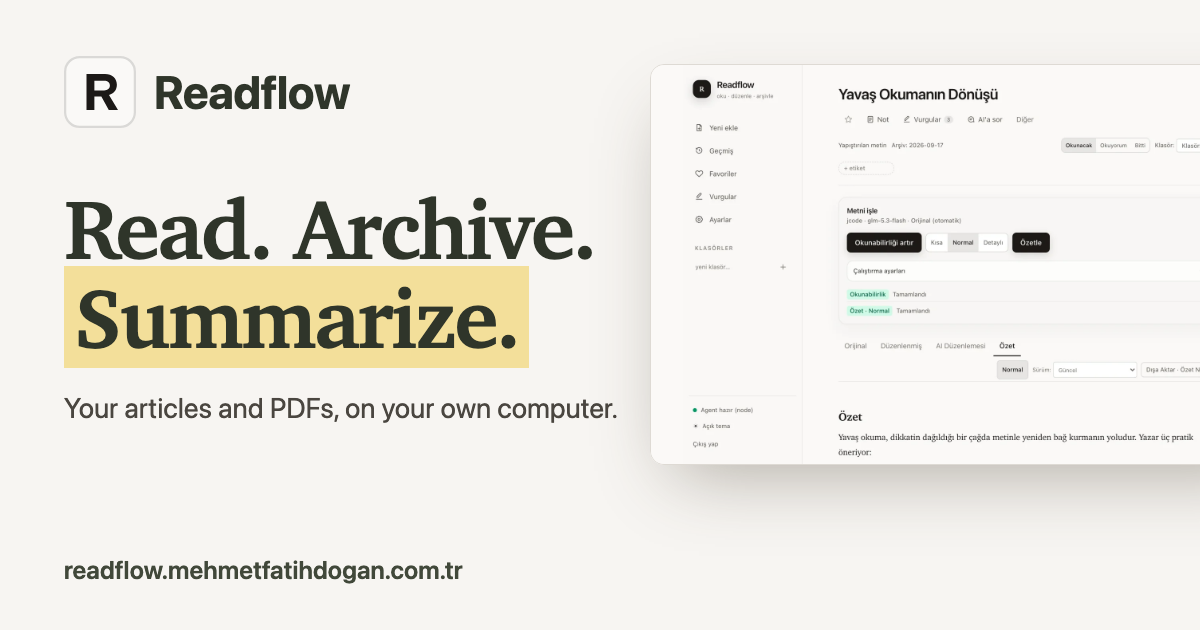
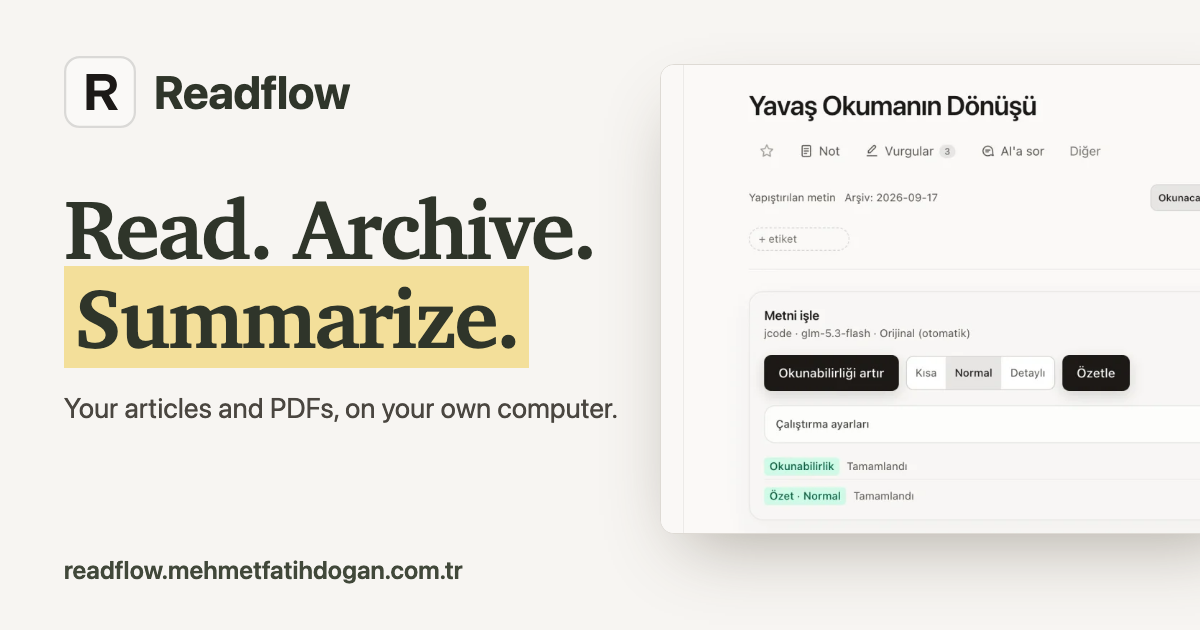
feat: paylaşım kartında ürün ekranını yakınlaştır, görseli önbellekten çıkar

diff --git a/showcase/en/index.html b/showcase/en/index.html
@@ -19,7 +19,7 @@
 <meta property="og:title" content="Readflow — Read-it-later App for Articles & PDFs">
 <meta property="og:description" content="Archive articles and PDFs, keep a read-it-later reading list, highlight and summarize with your own agent. Local-first: your data stays with you.">
 <meta property="og:url" content="https://readflow.mehmetfatihdogan.com.tr/en/">
-<meta property="og:image" content="https://readflow.mehmetfatihdogan.com.tr/assets/og-en.png">
+<meta property="og:image" content="https://readflow.mehmetfatihdogan.com.tr/assets/og-en.png?v=2">
 <meta property="og:image:width" content="1200">
 <meta property="og:image:height" content="630">
 <meta property="og:image:type" content="image/png">
@@ -27,12 +27,12 @@
 <meta name="twitter:card" content="summary_large_image">
 <meta name="twitter:title" content="Readflow — Read-it-later App for Articles & PDFs">
 <meta name="twitter:description" content="Archive articles and PDFs, keep a read-it-later reading list, highlight and summarize with your own agent. Local-first: your data stays with you.">
-<meta name="twitter:image" content="https://readflow.mehmetfatihdogan.com.tr/assets/og-en.png">
+<meta name="twitter:image" content="https://readflow.mehmetfatihdogan.com.tr/assets/og-en.png?v=2">
 <meta name="twitter:image:alt" content="Readflow share card: article and PDF archive, reading list and highlights on your own computer.">
 <link rel="icon" href="/favicon.svg" type="image/svg+xml">
 <link rel="apple-touch-icon" href="/apple-touch-icon.png">
 <link rel="stylesheet" href="/style.css?v=20261012b">
-<script type="application/ld+json">{"@context": "https://schema.org", "@type": "SoftwareApplication", "name": "Readflow", "url": "https://readflow.mehmetfatihdogan.com.tr/en/", "description": "A local-first read-it-later app for articles and PDFs: archives them with a reading list and highlights, and summarizes with your own coding-agent CLI.", "inLanguage": "en", "applicationCategory": "ProductivityApplication", "operatingSystem": "macOS, Linux, Windows", "license": "https://opensource.org/licenses/MIT", "offers": {"@type": "Offer", "price": "0", "priceCurrency": "USD"}, "author": {"@type": "Person", "@id": "https://mehmetfatihdogan.com.tr/#person", "name": "Mehmet Fatih Doğan", "url": "https://mehmetfatihdogan.com.tr"}, "sameAs": ["https://github.com/fatihdogann/readflow"], "image": "https://readflow.mehmetfatihdogan.com.tr/assets/og-en.png"}</script>
+<script type="application/ld+json">{"@context": "https://schema.org", "@type": "SoftwareApplication", "name": "Readflow", "url": "https://readflow.mehmetfatihdogan.com.tr/en/", "description": "A local-first read-it-later app for articles and PDFs: archives them with a reading list and highlights, and summarizes with your own coding-agent CLI.", "inLanguage": "en", "applicationCategory": "ProductivityApplication", "operatingSystem": "macOS, Linux, Windows", "license": "https://opensource.org/licenses/MIT", "offers": {"@type": "Offer", "price": "0", "priceCurrency": "USD"}, "author": {"@type": "Person", "@id": "https://mehmetfatihdogan.com.tr/#person", "name": "Mehmet Fatih Doğan", "url": "https://mehmetfatihdogan.com.tr"}, "sameAs": ["https://github.com/fatihdogann/readflow"], "image": "https://readflow.mehmetfatihdogan.com.tr/assets/og-en.png?v=2"}</script>
 </head>
 <body><a class="skip-link" href="#main">Skip to content</a>
 <div class="wrap">

diff --git a/showcase/index.html b/showcase/index.html
@@ -20,7 +20,7 @@
 <meta property="og:title" content="Readflow — Makale ve PDF Arşivi, Okuma Listesi">
 <meta property="og:description" content="Makaleleri ve PDF'leri tek arşive topla; read-it-later okuma listesi, vurgular ve kendi agent'ınla özetler. Local-first: verin senin bilgisayarında.">
 <meta property="og:url" content="https://readflow.mehmetfatihdogan.com.tr/">
-<meta property="og:image" content="https://readflow.mehmetfatihdogan.com.tr/assets/og-tr.png">
+<meta property="og:image" content="https://readflow.mehmetfatihdogan.com.tr/assets/og-tr.png?v=2">
 <meta property="og:image:width" content="1200">
 <meta property="og:image:height" content="630">
 <meta property="og:image:type" content="image/png">
@@ -28,12 +28,12 @@
 <meta name="twitter:card" content="summary_large_image">
 <meta name="twitter:title" content="Readflow — Makale ve PDF Arşivi, Okuma Listesi">
 <meta name="twitter:description" content="Makaleleri ve PDF'leri tek arşive topla; read-it-later okuma listesi, vurgular ve kendi agent'ınla özetler. Local-first: verin senin bilgisayarında.">
-<meta name="twitter:image" content="https://readflow.mehmetfatihdogan.com.tr/assets/og-tr.png">
+<meta name="twitter:image" content="https://readflow.mehmetfatihdogan.com.tr/assets/og-tr.png?v=2">
 <meta name="twitter:image:alt" content="Readflow paylaşım kartı: makale ve PDF arşivi, okuma listesi ve vurgular — kendi bilgisayarında.">
 <link rel="icon" href="/favicon.svg" type="image/svg+xml">
 <link rel="apple-touch-icon" href="/apple-touch-icon.png">
 <link rel="stylesheet" href="/style.css?v=20261012b">
-<script type="application/ld+json">{"@context": "https://schema.org", "@type": "SoftwareApplication", "name": "Readflow", "url": "https://readflow.mehmetfatihdogan.com.tr/", "description": "Makaleleri ve PDF'leri arşivleyen, vurgulayan ve kendi coding-agent CLI'ınla özetleyen local-first okuma uygulaması.", "inLanguage": "tr", "applicationCategory": "ProductivityApplication", "operatingSystem": "macOS, Linux, Windows", "license": "https://opensource.org/licenses/MIT", "offers": {"@type": "Offer", "price": "0", "priceCurrency": "USD"}, "author": {"@type": "Person", "@id": "https://mehmetfatihdogan.com.tr/#person", "name": "Mehmet Fatih Doğan", "url": "https://mehmetfatihdogan.com.tr"}, "sameAs": ["https://github.com/fatihdogann/readflow"], "image": "https://readflow.mehmetfatihdogan.com.tr/assets/og-tr.png"}</script>
+<script type="application/ld+json">{"@context": "https://schema.org", "@type": "SoftwareApplication", "name": "Readflow", "url": "https://readflow.mehmetfatihdogan.com.tr/", "description": "Makaleleri ve PDF'leri arşivleyen, vurgulayan ve kendi coding-agent CLI'ınla özetleyen local-first okuma uygulaması.", "inLanguage": "tr", "applicationCategory": "ProductivityApplication", "operatingSystem": "macOS, Linux, Windows", "license": "https://opensource.org/licenses/MIT", "offers": {"@type": "Offer", "price": "0", "priceCurrency": "USD"}, "author": {"@type": "Person", "@id": "https://mehmetfatihdogan.com.tr/#person", "name": "Mehmet Fatih Doğan", "url": "https://mehmetfatihdogan.com.tr"}, "sameAs": ["https://github.com/fatihdogann/readflow"], "image": "https://readflow.mehmetfatihdogan.com.tr/assets/og-tr.png?v=2"}</script>
 </head>
 <body><a class="skip-link" href="#main">İçeriğe atla</a>
 <div class="wrap">

diff --git a/showcase/en/pocket-alternative/index.html b/showcase/en/pocket-alternative/index.html
@@ -20,7 +20,7 @@
 <meta property="og:title" content="Pocket Alternative — Article &amp; PDF Archive, Local-first">
 <meta property="og:description" content="Pocket shut down. Archive articles and PDFs on your own computer with Readflow: reading list, highlights and summaries from your own AI tool. Pocket import supported.">
 <meta property="og:url" content="https://readflow.mehmetfatihdogan.com.tr/en/pocket-alternative/">
-<meta property="og:image" content="https://readflow.mehmetfatihdogan.com.tr/assets/og-en.png">
+<meta property="og:image" content="https://readflow.mehmetfatihdogan.com.tr/assets/og-en.png?v=2">
 <meta property="og:image:width" content="1200">
 <meta property="og:image:height" content="630">
 <meta property="og:image:type" content="image/png">
@@ -28,7 +28,7 @@
 <meta name="twitter:card" content="summary_large_image">
 <meta name="twitter:title" content="Pocket Alternative — Article &amp; PDF Archive, Local-first">
 <meta name="twitter:description" content="Pocket shut down. Archive articles and PDFs on your own computer with Readflow: reading list, highlights and summaries from your own AI tool.">
-<meta name="twitter:image" content="https://readflow.mehmetfatihdogan.com.tr/assets/og-en.png">
+<meta name="twitter:image" content="https://readflow.mehmetfatihdogan.com.tr/assets/og-en.png?v=2">
 <meta name="twitter:image:alt" content="Readflow share card: article and PDF archive, reading list and highlights on your own computer.">
 <link rel="icon" href="/favicon.svg" type="image/svg+xml">
 <link rel="apple-touch-icon" href="/apple-touch-icon.png">

diff --git a/showcase/pocket-alternatifi/index.html b/showcase/pocket-alternatifi/index.html
@@ -20,7 +20,7 @@
 <meta property="og:title" content="Pocket Alternatifi — Makale ve PDF Arşivi, Local-first">
 <meta property="og:description" content="Pocket kapandı. Readflow ile makale ve PDF'lerini kendi bilgisayarında arşivle: okuma listesi, vurgular ve kendi AI aracınla özet. Pocket içe aktarma desteklenir.">
 <meta property="og:url" content="https://readflow.mehmetfatihdogan.com.tr/pocket-alternatifi/">
-<meta property="og:image" content="https://readflow.mehmetfatihdogan.com.tr/assets/og-tr.png">
+<meta property="og:image" content="https://readflow.mehmetfatihdogan.com.tr/assets/og-tr.png?v=2">
 <meta property="og:image:width" content="1200">
 <meta property="og:image:height" content="630">
 <meta property="og:image:type" content="image/png">
@@ -28,7 +28,7 @@
 <meta name="twitter:card" content="summary_large_image">
 <meta name="twitter:title" content="Pocket Alternatifi — Makale ve PDF Arşivi, Local-first">
 <meta name="twitter:description" content="Pocket kapandı. Readflow ile makale ve PDF'lerini kendi bilgisayarında arşivle: okuma listesi, vurgular ve kendi AI aracınla özet.">
-<meta name="twitter:image" content="https://readflow.mehmetfatihdogan.com.tr/assets/og-tr.png">
+<meta name="twitter:image" content="https://readflow.mehmetfatihdogan.com.tr/assets/og-tr.png?v=2">
 <meta name="twitter:image:alt" content="Readflow paylaşım kartı: makale ve PDF arşivi, okuma listesi ve vurgular — kendi bilgisayarında.">
 <link rel="icon" href="/favicon.svg" type="image/svg+xml">
 <link rel="apple-touch-icon" href="/apple-touch-icon.png">
